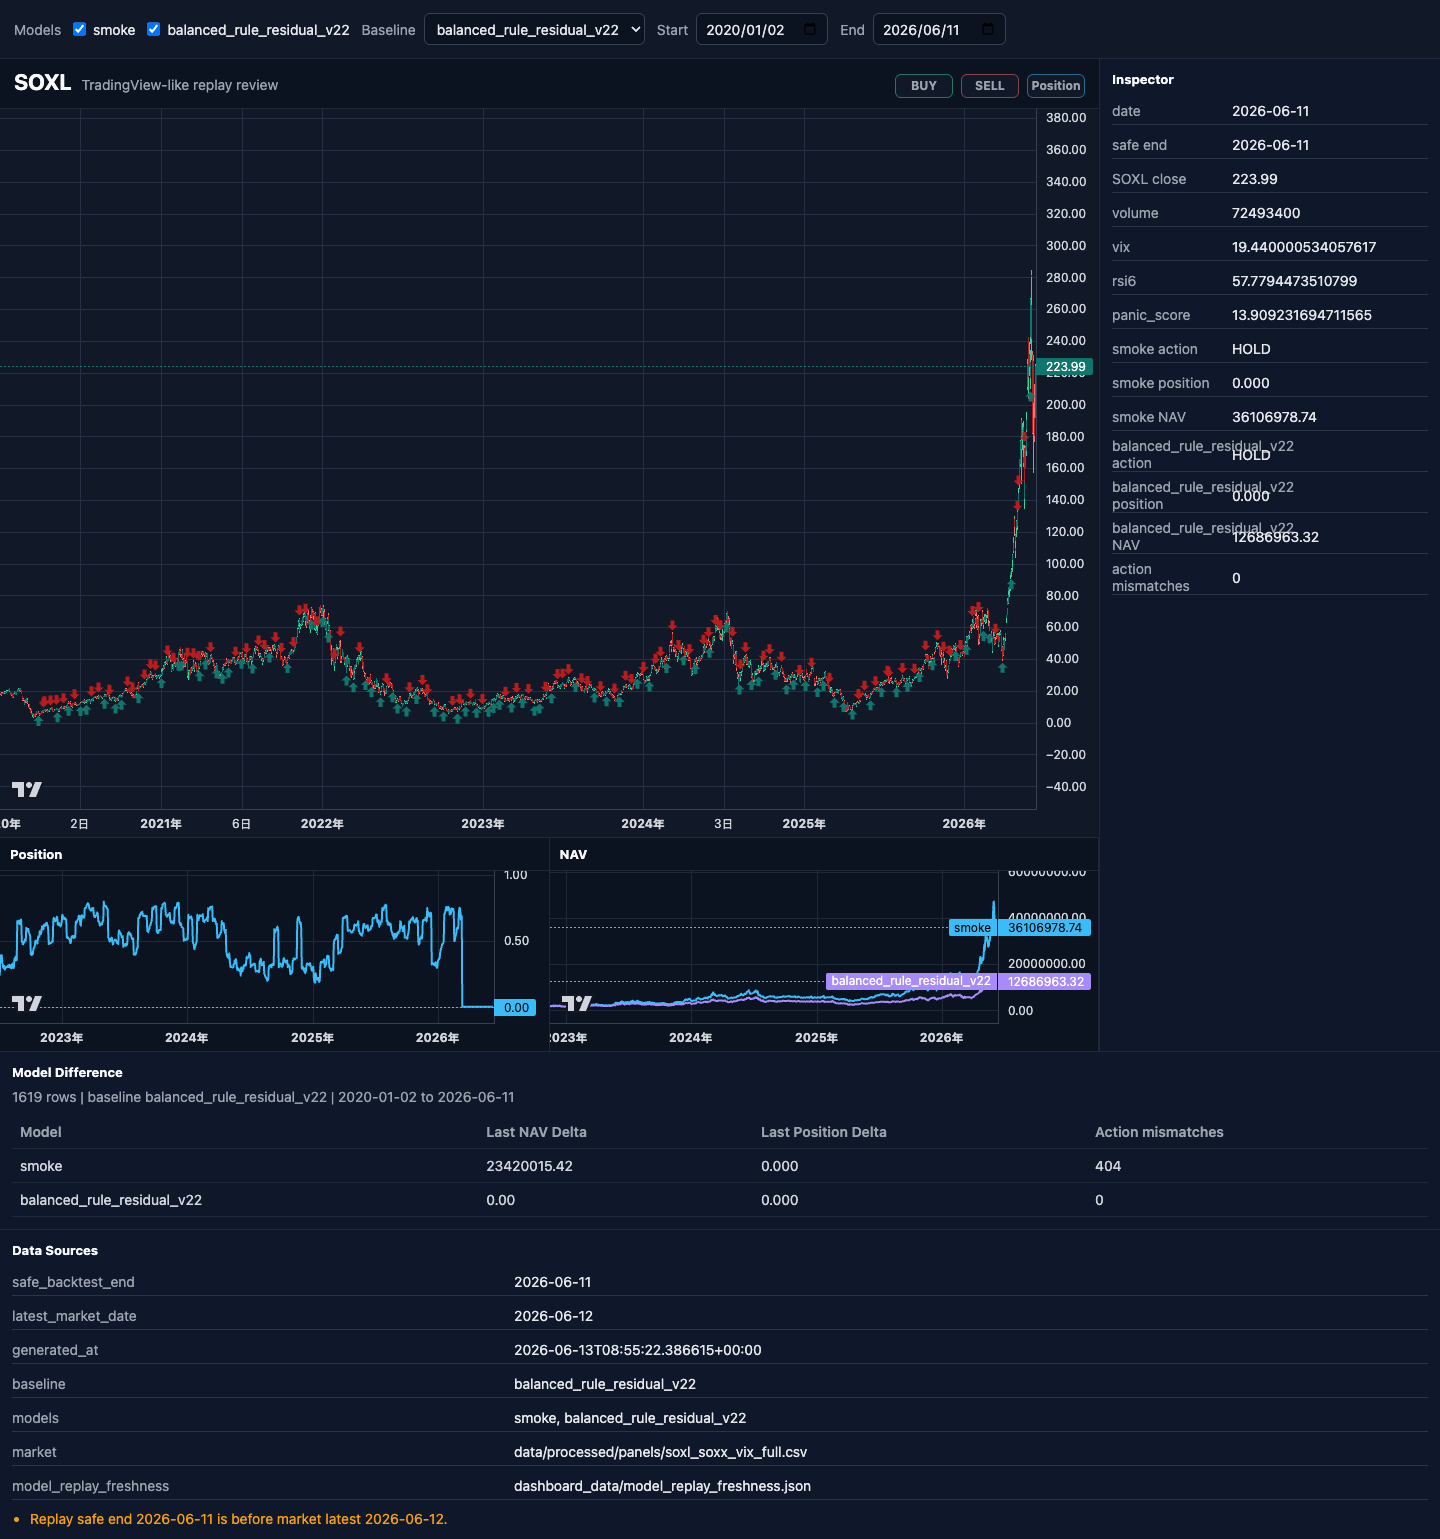
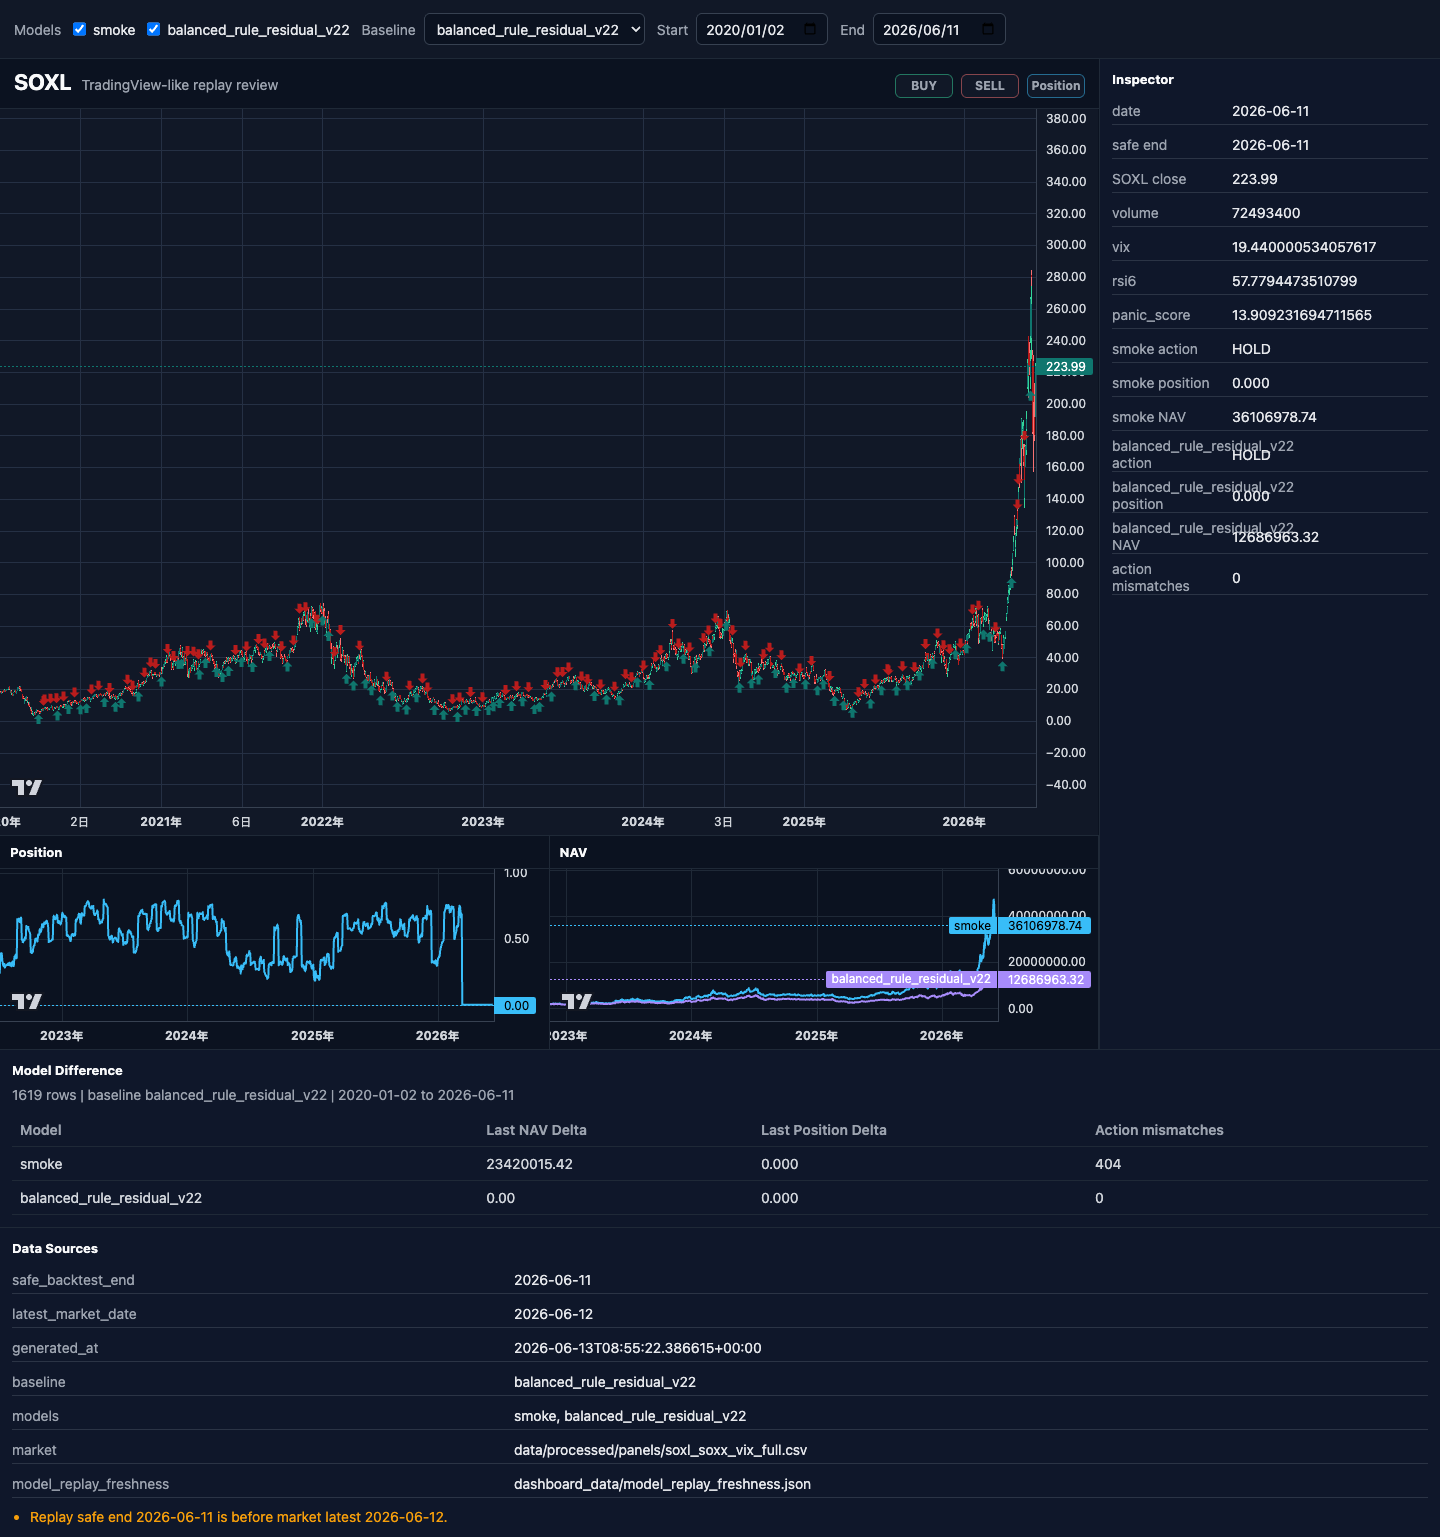
Quiet dashboard v2 chart resize warnings

diff --git a/web/dashboard-v2/src/chart.ts b/web/dashboard-v2/src/chart.ts
@@ -22,14 +22,6 @@ function eventDate(param: MouseEventParams<Time>): string | null {
   return `${param.time.year}-${String(param.time.month).padStart(2, '0')}-${String(param.time.day).padStart(2, '0')}`;
 }
 
-function resizeChart(container: HTMLElement, chart: IChartApi, fallbackHeight: number): void {
-  const resize = () => {
-    chart.resize(container.clientWidth || 800, container.clientHeight || fallbackHeight);
-  };
-  resize();
-  new ResizeObserver(resize).observe(container);
-}
-
 export interface ChartHandles {
   chart: IChartApi;
   primarySeries: ISeriesApi<'Candlestick'> | ISeriesApi<'Line'>;
@@ -44,7 +36,6 @@ export function renderMarketChart(
   container.replaceChildren();
   const chart = createChart(container, {
     autoSize: true,
-    height: container.clientHeight || 480,
     layout: { background: { color: '#111827' }, textColor: '#d1d5db' },
     grid: { vertLines: { color: '#253044' }, horzLines: { color: '#253044' } },
     rightPriceScale: { borderColor: '#374151' },
@@ -82,7 +73,6 @@ export function renderMarketChart(
     const date = eventDate(param);
     if (date) onDate(date);
   });
-  resizeChart(container, chart, 480);
   chart.timeScale().fitContent();
   return { chart, primarySeries: candleSeries };
 }
@@ -91,7 +81,6 @@ export function renderPositionChart(container: HTMLElement, model: ModelPayload)
   container.replaceChildren();
   const chart = createChart(container, {
     autoSize: true,
-    height: container.clientHeight || 180,
     layout: { background: { color: '#0b1220' }, textColor: '#d1d5db' },
     grid: { vertLines: { color: '#1f2937' }, horzLines: { color: '#1f2937' } },
     rightPriceScale: { borderColor: '#374151' },
@@ -99,7 +88,6 @@ export function renderPositionChart(container: HTMLElement, model: ModelPayload)
   });
   const line = chart.addSeries(LineSeries, { color: '#38bdf8', lineWidth: 2 });
   line.setData(model.rows.map((row) => ({ time: toTime(row.date), value: row.position })));
-  resizeChart(container, chart, 180);
   chart.timeScale().fitContent();
   return { chart, primarySeries: line };
 }
@@ -108,7 +96,6 @@ export function renderNavChart(container: HTMLElement, models: Record<string, Mo
   container.replaceChildren();
   const chart = createChart(container, {
     autoSize: true,
-    height: container.clientHeight || 220,
     layout: { background: { color: '#0b1220' }, textColor: '#d1d5db' },
     grid: { vertLines: { color: '#1f2937' }, horzLines: { color: '#1f2937' } },
     rightPriceScale: { borderColor: '#374151' },
@@ -119,7 +106,6 @@ export function renderNavChart(container: HTMLElement, models: Record<string, Mo
     const series = chart.addSeries(LineSeries, { color: colors[index % colors.length], lineWidth: 2, title: profile });
     series.setData(model.rows.map((row) => ({ time: toTime(row.date), value: row.strategy_nav })));
   });
-  resizeChart(container, chart, 220);
   chart.timeScale().fitContent();
   return chart;
 }
